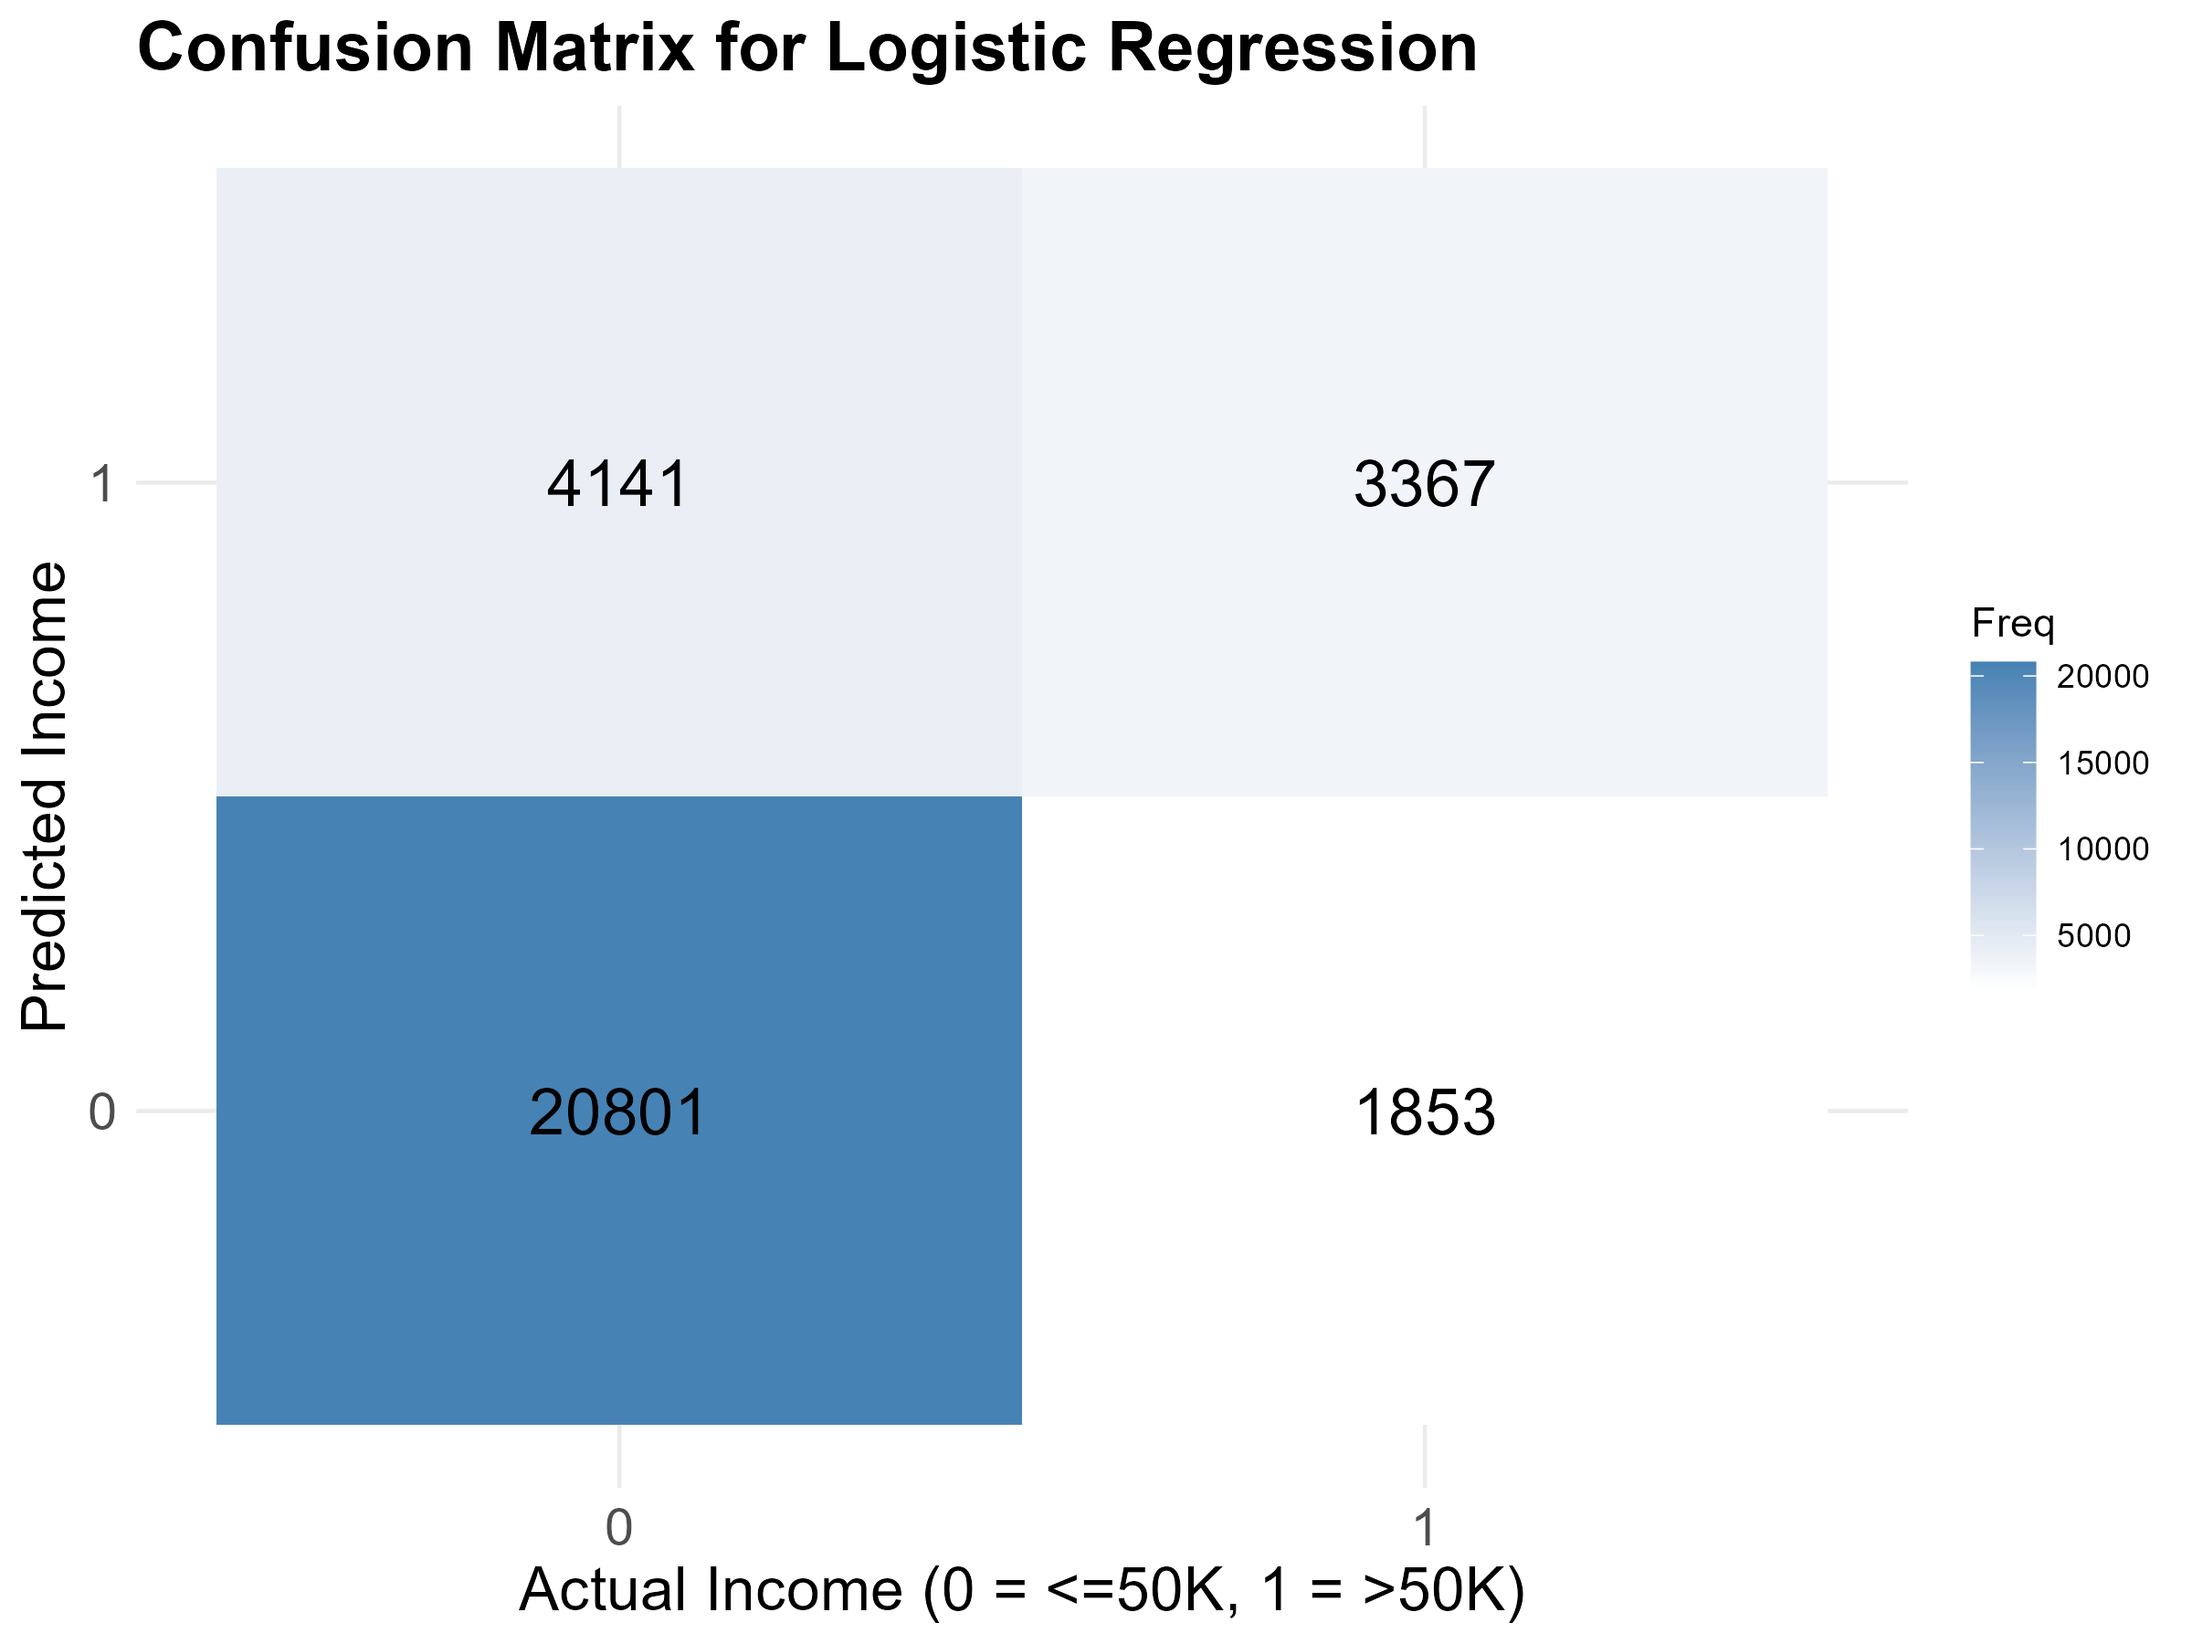
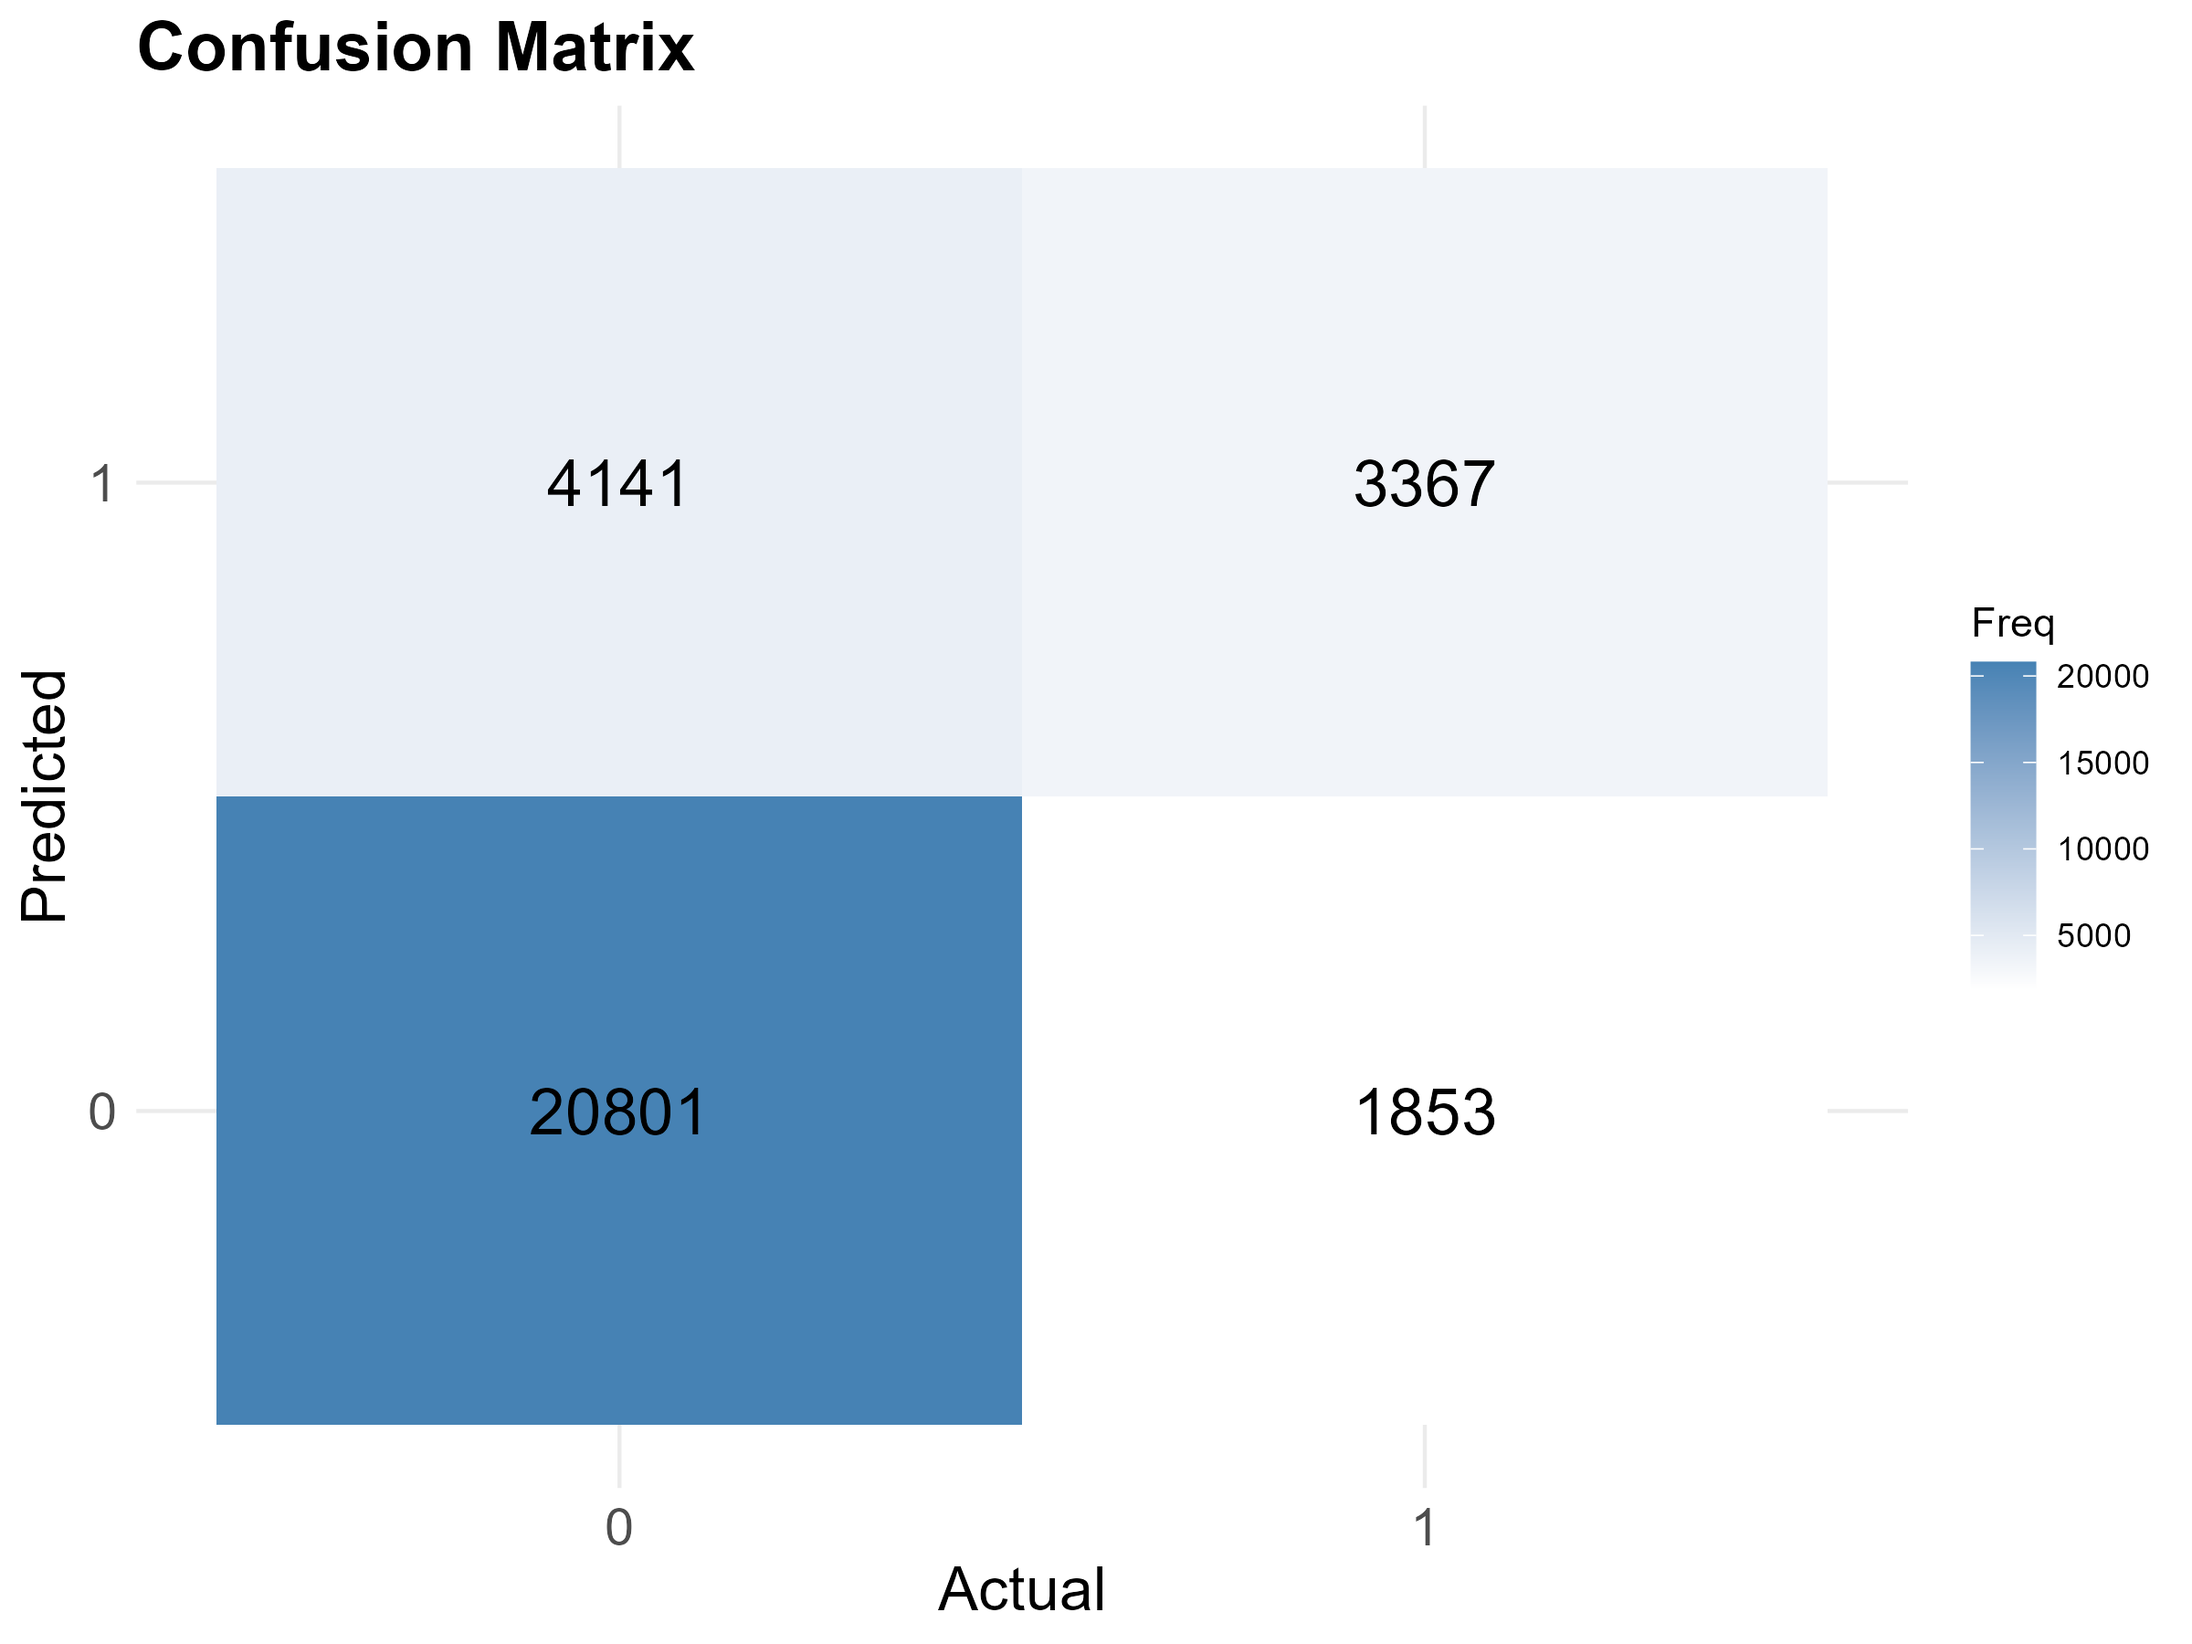
updated analysis with precision

diff --git a/salary_analysis.html b/salary_analysis.html
@@ -112,7 +112,7 @@ div.csl-indent {
 
 <section id="summary" class="level2" data-number="1">
 <h2 data-number="1" class="anchored" data-anchor-id="summary"><span class="header-section-number">1</span> Summary</h2>
-<p>We applied a logistic regression model on the 1994 UCI Adult Census dataset to predict whether an individual earns ≤$50K or &gt;$50K a year. The model achieved an accuracy of 80.13%. One of the patterns we found from our exploratory data analysis was that education and income appear to be positively correlated — as the education level of an individual increases, their income tends to increase. Another important correlation was between marital status and income, where married individuals were more likely to earn &gt;$50K compared to non-married individuals. The findings from this analysis can be used to influence education and other social policies. Due to the strong performance of this model it can also serve as a template for similar work in economic research.</p>
+<p>We applied a logistic regression model on the 1994 UCI Adult Census dataset to predict whether an individual earns ≤$50K or &gt;$50K a year. The model achieved an accuracy of 80.13% and precision of 64.5%. One of the patterns we found from our exploratory data analysis was that education and income appear to be positively correlated — as the education level of an individual increases, their income tends to increase. Another important correlation was between marital status and income, where married individuals were more likely to earn &gt;$50K compared to non-married individuals. The findings from this analysis can be used to influence education and other social policies. Due to the strong performance of this model it can also serve as a template for similar work in economic research. These patterns are reflected directly in the model — <code>education_num</code> and <code>married</code> were selected as predictors based on their strong correlations with income observed in the EDA,and the model’s AUC of 0.811 confirms that these two features carry meaningful predictive signal.</p>
 </section>
 <section id="introduction" class="level2" data-number="2">
 <h2 data-number="2" class="anchored" data-anchor-id="introduction"><span class="header-section-number">2</span> Introduction</h2>
@@ -213,7 +213,7 @@ Figure&nbsp;3: Distribution of income by marital status in the Adult dataset.
 </div>
 </div>
 </div>
-<p>We fit a logistic regression model using <code>education_num</code> and <code>married</code> as predictors of <code>income</code>. The model achieved an overall accuracy of 80.13%.</p>
+<p>We fit a logistic regression model using <code>education_num</code> and <code>married</code> as predictors of <code>income</code>. The model achieved an overall accuracy of 80.13% and precision of 64.5%.</p>
 <p><a href="#fig-confusion" class="quarto-xref">Figure&nbsp;4</a> presents the confusion matrix for the logistic regression model. The model correctly classified 20,801 individuals in the ≤$50K category and 3,367 in the &gt;$50K category. However, it misclassified 4,141 high-income individuals as low-income (false negatives) and 1,853 low-income individuals as high-income (false positives). These results indicate that the model performs better at predicting the ≤$50K class, with lower sensitivity in identifying high-income earners.</p>
 <div class="cell">
 <div class="cell-output-display">
